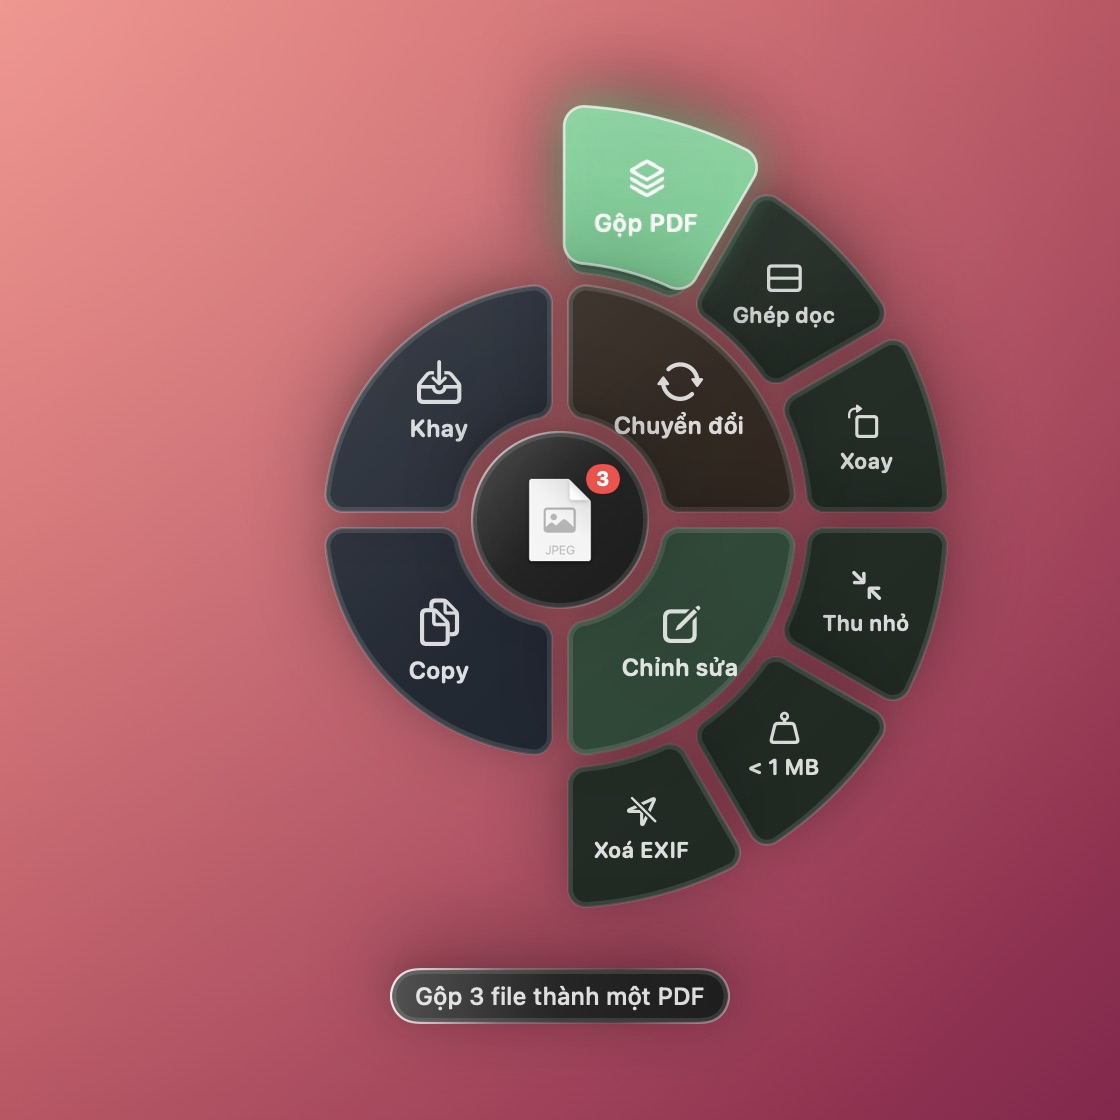
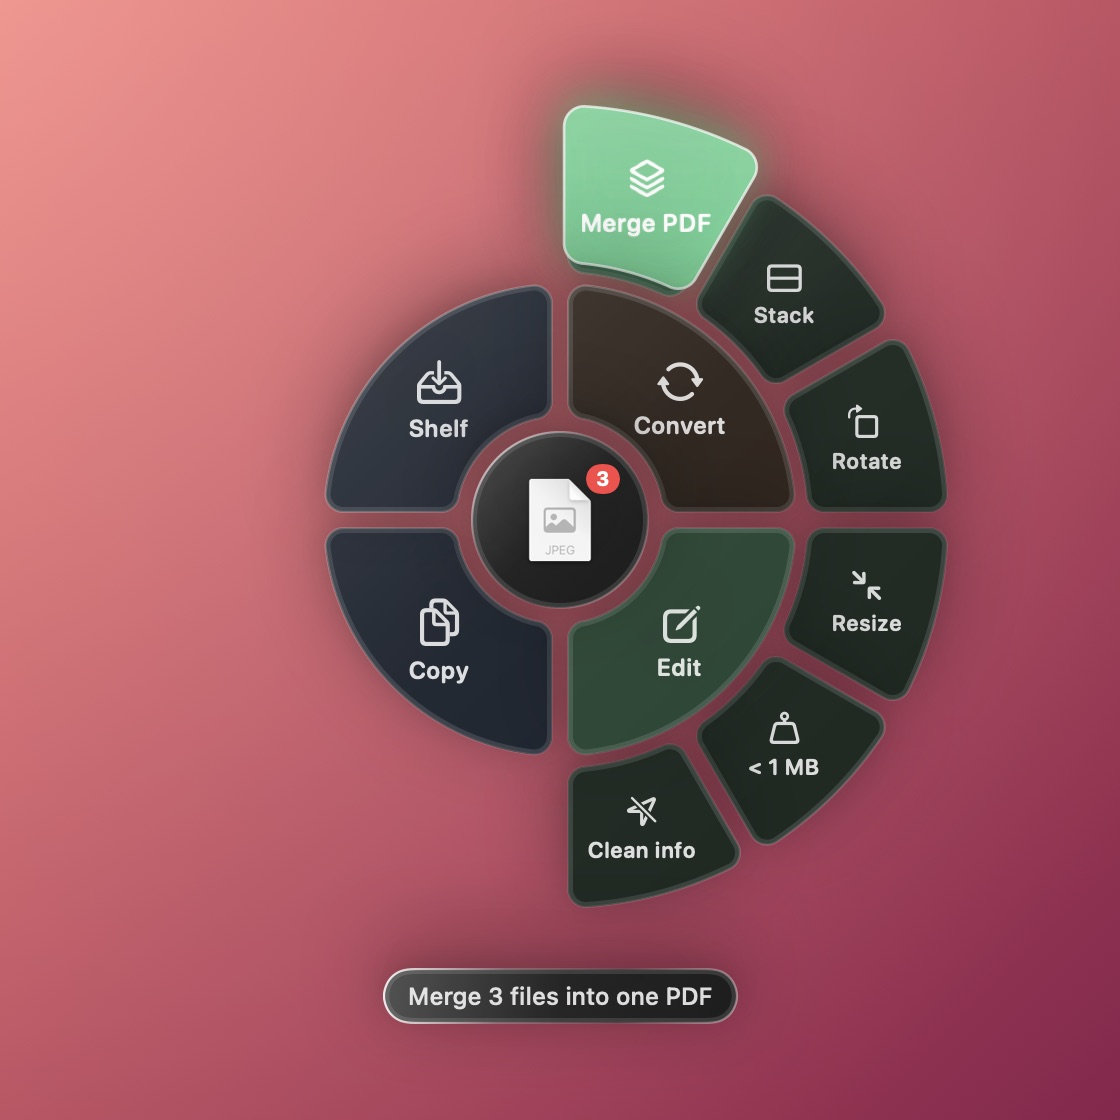
README screenshots: always render the app in English
They followed the Mac's system language, so the English text sat next to a Vietnamese UI.

diff --git a/scripts/screenshots.swift b/scripts/screenshots.swift
@@ -9,7 +9,8 @@ let out = URL(fileURLWithPath: CommandLine.arguments[1])
 // Chế độ "appstore": ảnh 2880x1800 cho Mac App Store, ngôn ngữ ở tham số thứ 5 (en | vi)
 let appStoreMode = CommandLine.arguments.count > 4 && CommandLine.arguments[4] == "appstore"
 let storeLang = CommandLine.arguments.count > 5 ? CommandLine.arguments[5] : "en"
-if appStoreMode { Settings.shared.language = storeLang == "vi" ? .vi : .en }
+// Ảnh README (dùng chung cho cả README.vi.md) luôn là tiếng Anh, không theo ngôn ngữ của máy
+Settings.shared.language = appStoreMode && storeLang == "vi" ? .vi : .en
 let samples = URL(fileURLWithPath: CommandLine.arguments[2])
 func sample(_ n: String) -> URL { samples.appendingPathComponent(n) }
 
